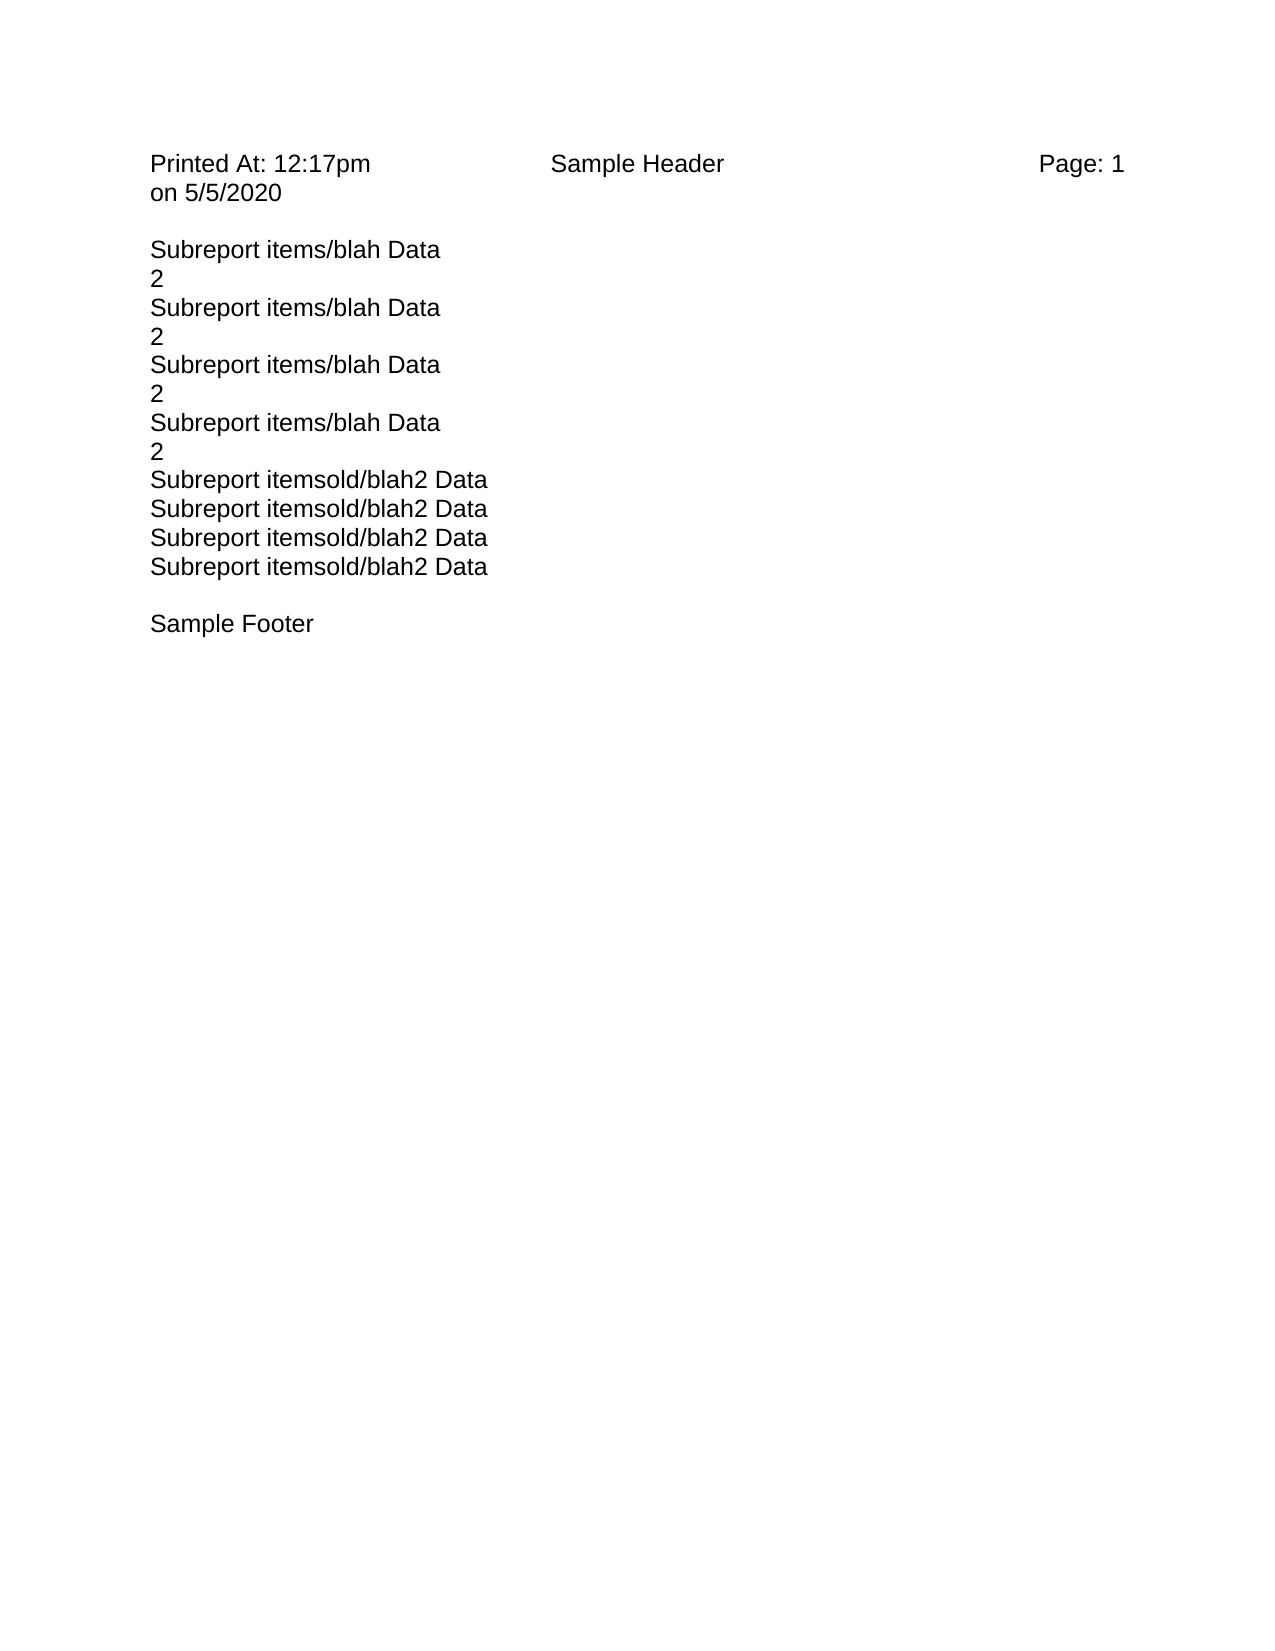
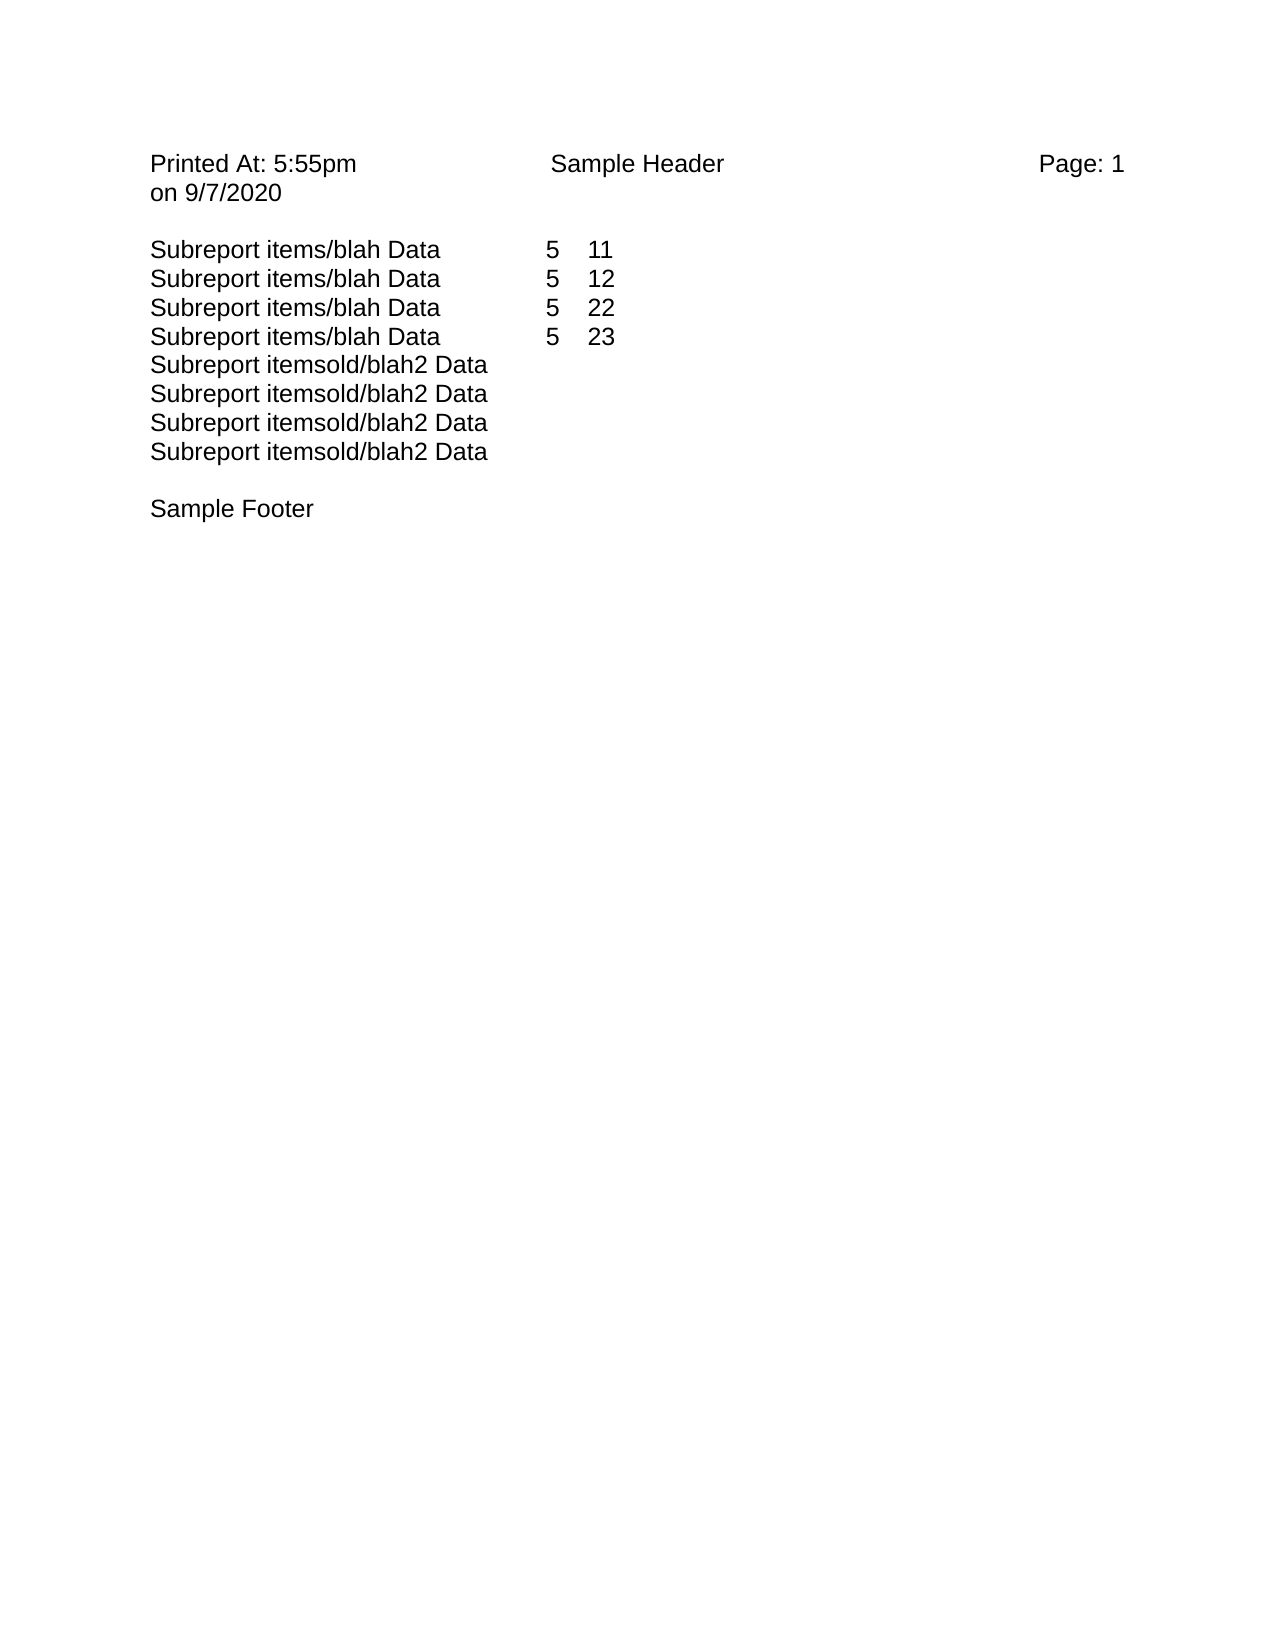
Update demo 23

Changed region(s): [[0.1224, 0.1545, 0.3976, 0.4016], [0.4282, 0.1545, 0.4894, 0.2162], [0.2141, 0.0927, 0.2753, 0.1236]]

diff --git a/examples/demo23.js b/examples/demo23.js
@@ -63,7 +63,7 @@ let reportData =
         "fonts": [],
         "variables": {
             "test": "1",
-            "temp": "2"
+            "temp": "5"
         },
         "subReports": [
             {
@@ -81,24 +81,24 @@ let reportData =
                                 "text": "Subreport items/blah Data",
                                 "settings": {
                                     "align": 0,
-                                    "newY": 0,
+                                    "absoluteY": 0,
                                 },
                                 "type": "print"
                             },
                             {
                                 "type": "print",
                                 "settings": {
-                                    "newX": 190,
-                                    "newY": 0,
+                                    "absoluteX": 210,
+                                    "absoluteY": 0,
                                     "align": 0
                                 },
-                                "total": "group"
+                                "field": "hi"
                             },
                             {
                                 "type": "print",
                                 "settings": {
-                                    "newX": 190,
-                                    "newY": 0,
+                                    "absoluteX": 190,
+                                    "absoluteY": 0,
                                     "align": 0
                                 },
                                 "variable": "temp"
